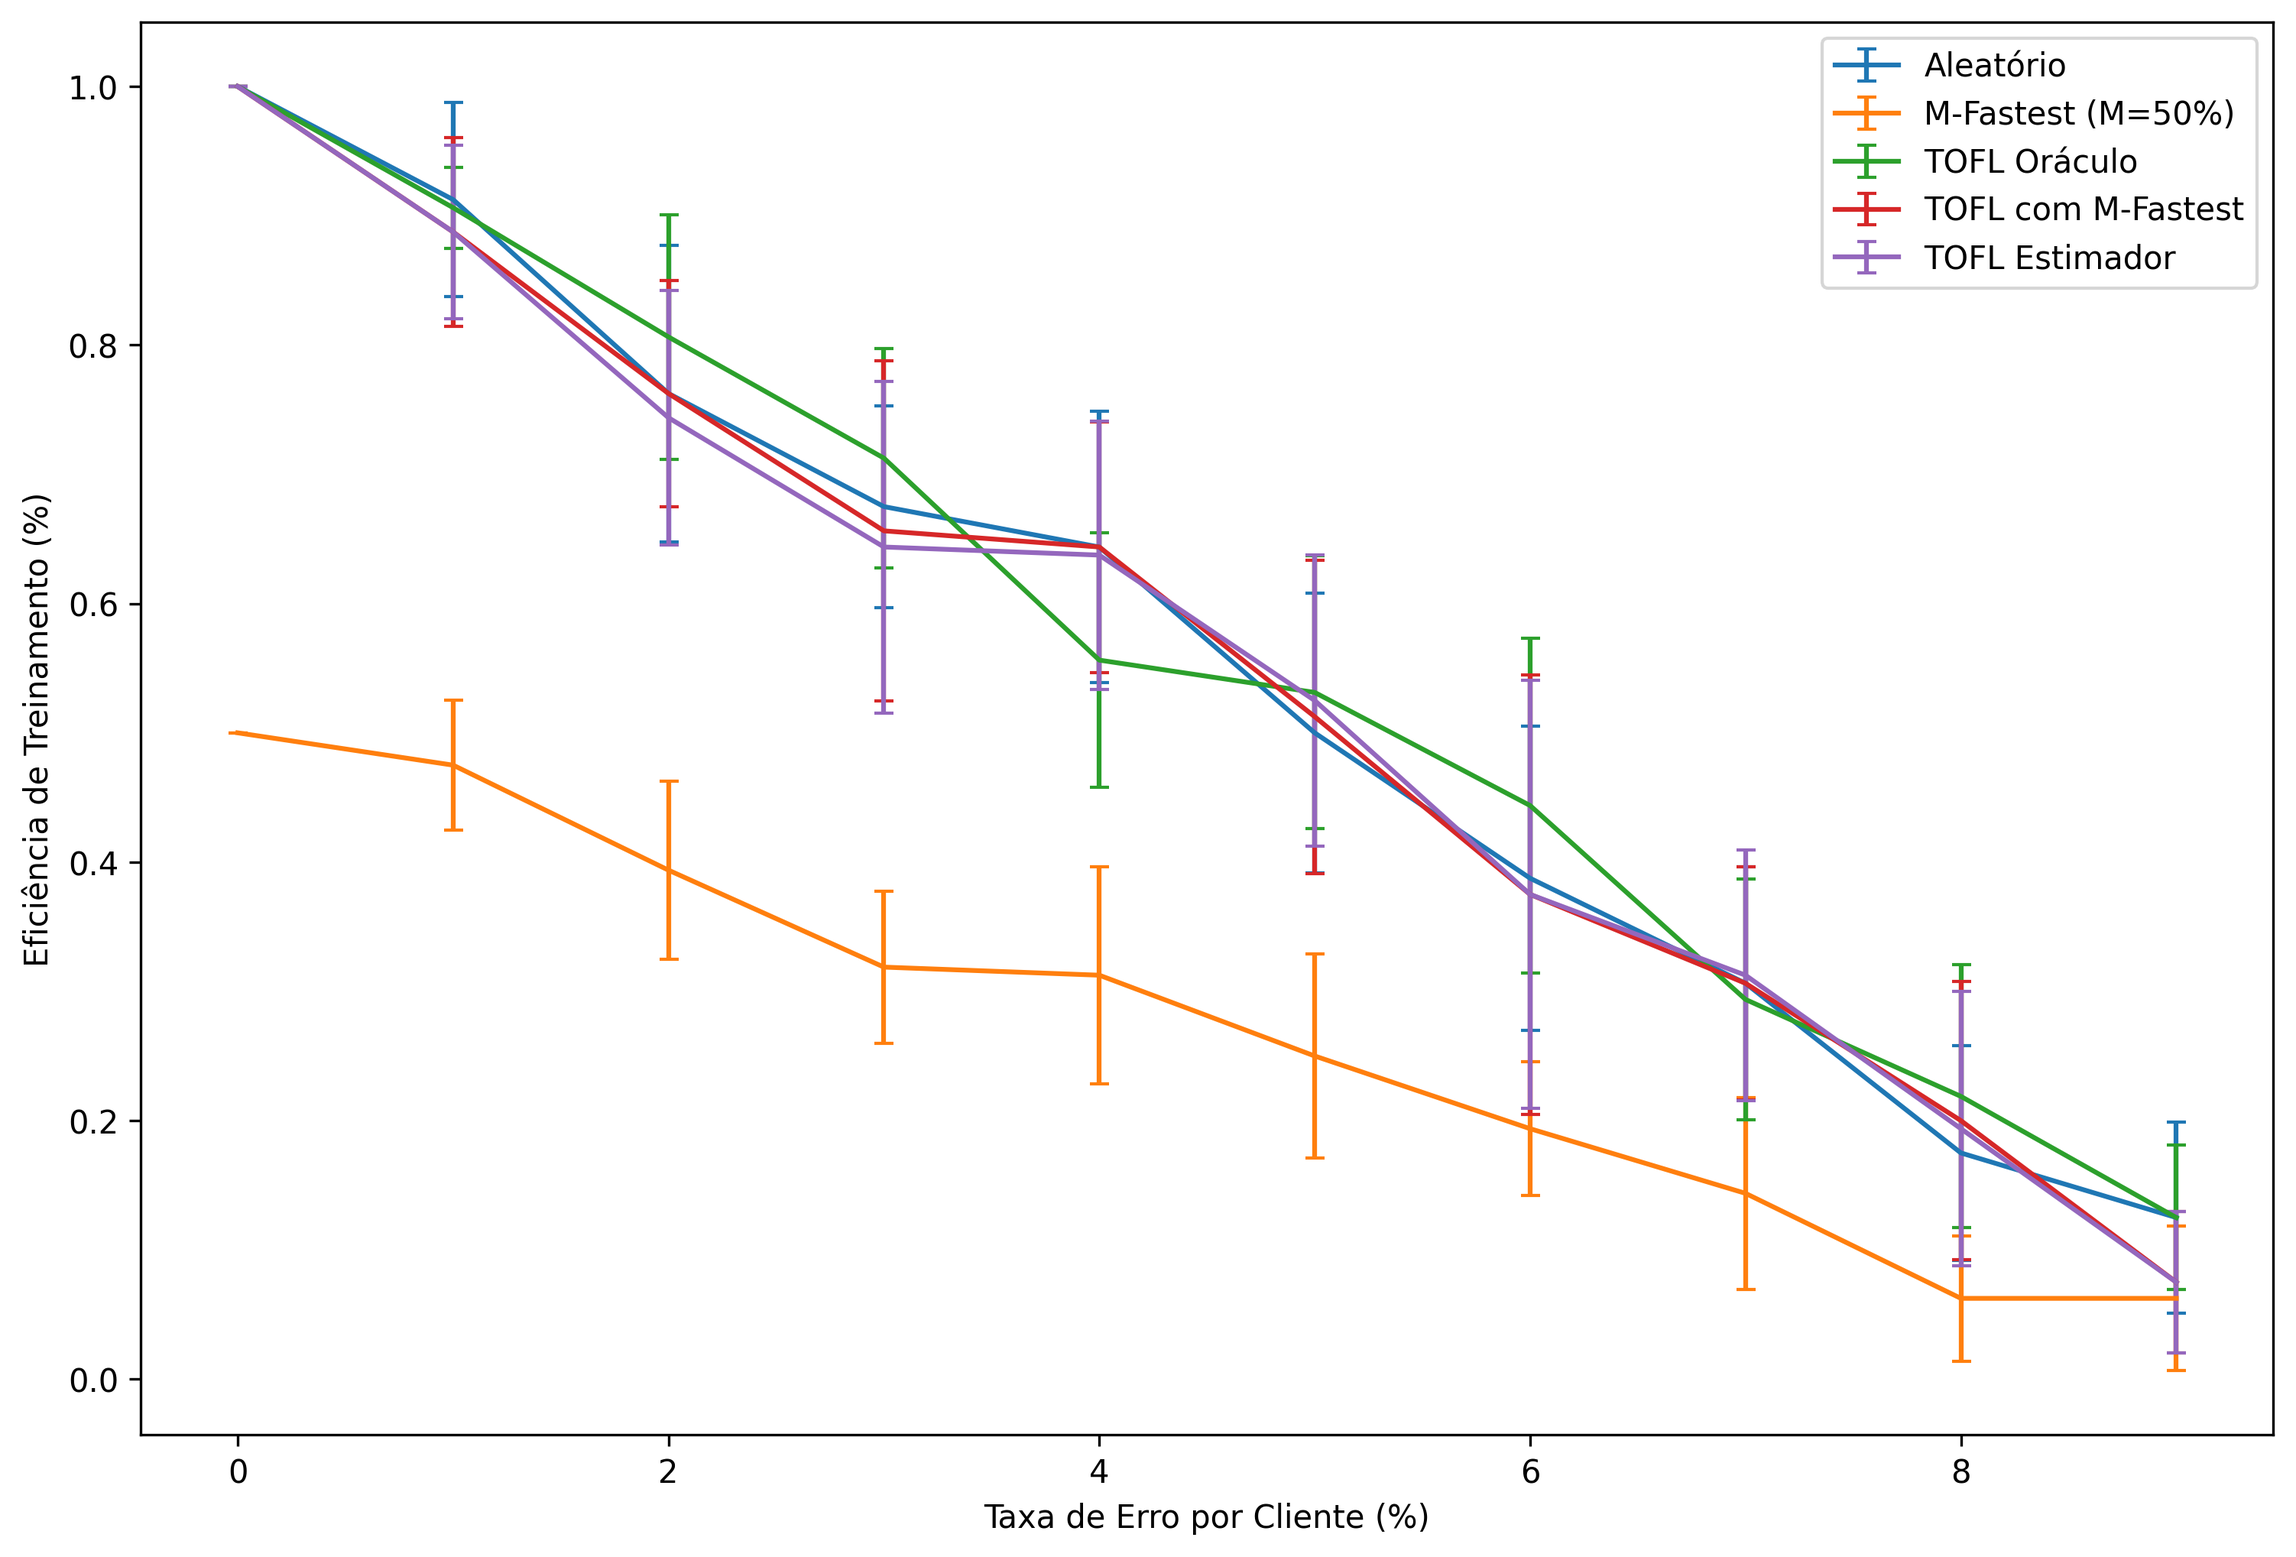
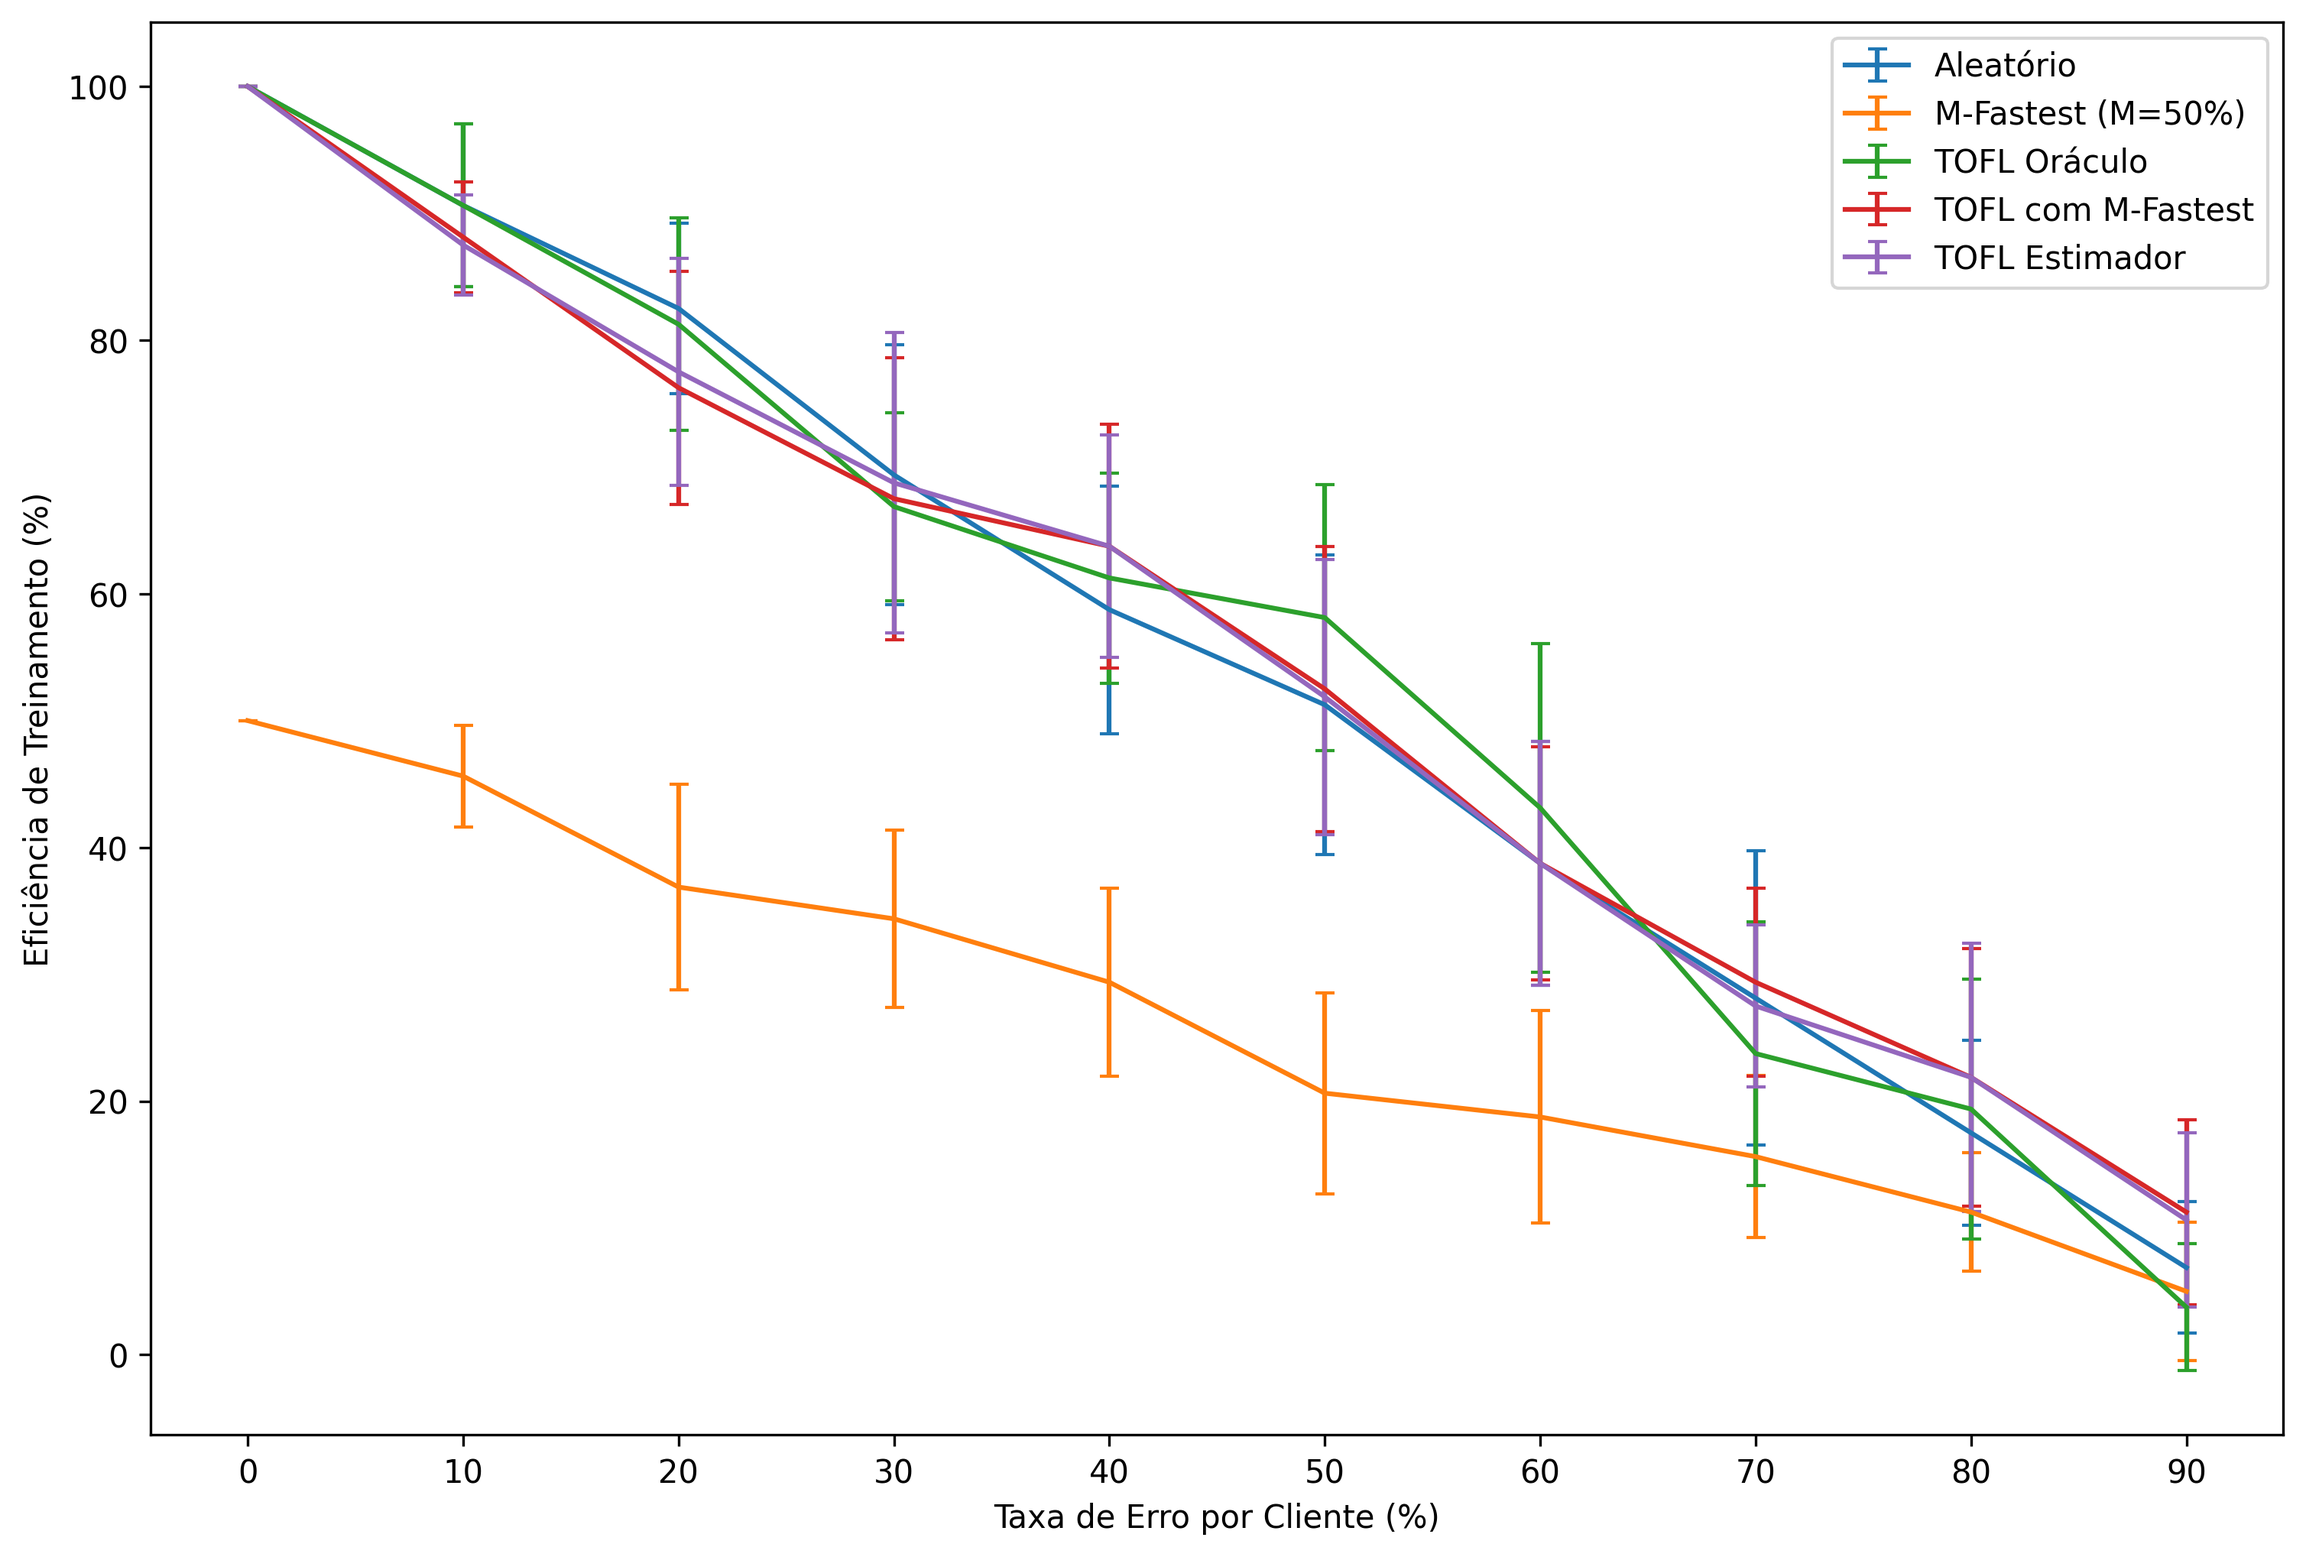
updating experiment 3

diff --git a/generate_figures/energy.py b/generate_figures/energy.py
@@ -27,7 +27,11 @@ def plot_energy(dictionary,
             stds.append(std(dictionary[server][err],axis=0))
             
             
-        plt.errorbar(x_axis, means, yerr=stds, capsize=3, label=legends[server])
+        plt.errorbar(x_axis, 
+                     [ 100*x for x in means ], 
+                      yerr=[ 100*x for x in stds ], 
+                      capsize=3, 
+                      label=legends[server])
 
     if language == "en":        
 
@@ -38,12 +42,19 @@ def plot_energy(dictionary,
         
         plt.xlabel("Taxa de Erro por Cliente (%)")
         plt.ylabel("Eficiência de Treinamento (%)")
-    
+
+
+    plt.xticks(x_axis, 
+               [str(x) for x in x_axis])
+
     plt.legend()
 
     plt.savefig("figures/training_efficiency_"+language+".png",
                 dpi=300,
                 bbox_inches='tight')
+    
+   
+    
 
     if PLOT:
         plt.show()
